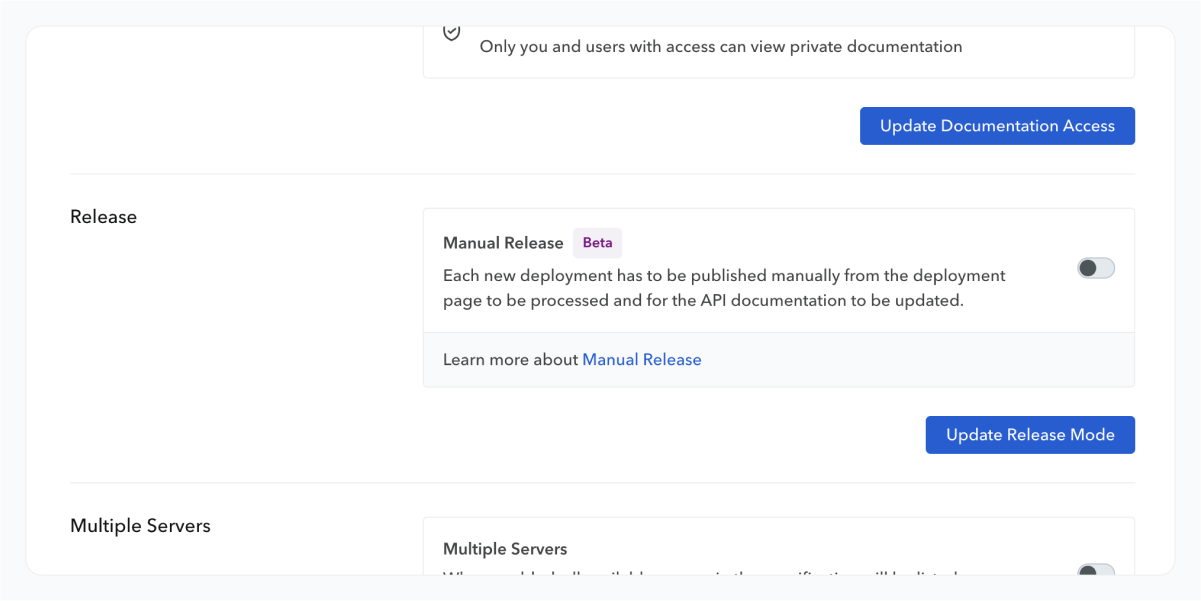
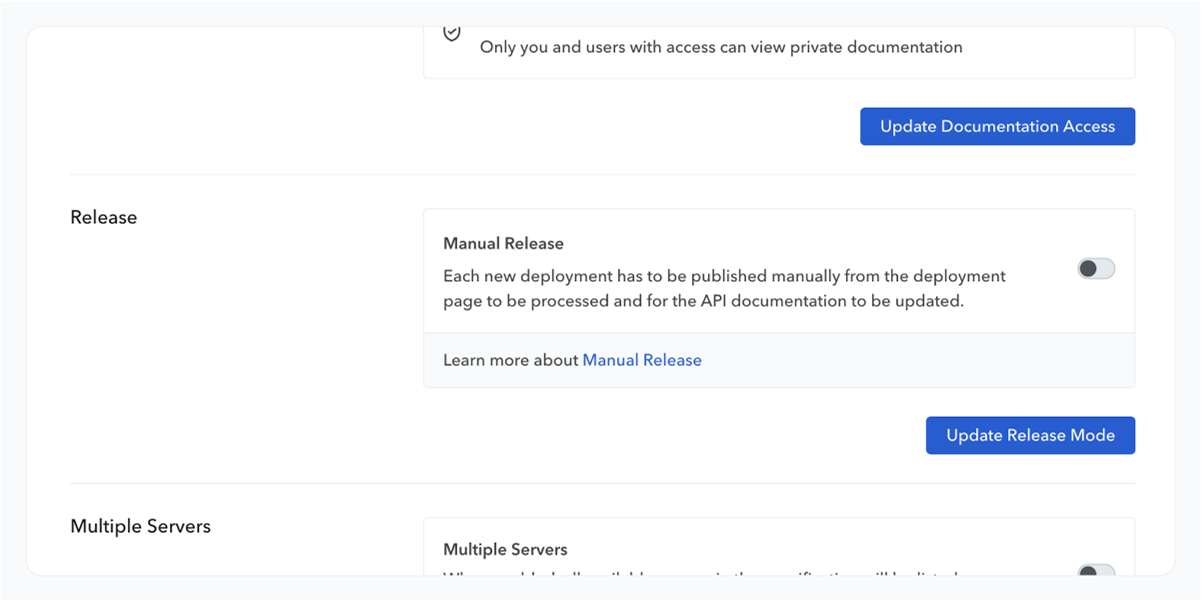
initial commit

diff --git a/src/_help/publish-documentation/deploy-and-release-management.md b/src/_help/publish-documentation/deploy-and-release-management.md
@@ -49,9 +49,6 @@ The Deployments section of your documentation provides access to the history of 
 
 ### Manual Release
 
->The Manual Release mode is still in beta. Please don't hesitate to [contact us](mailto: hello@bump.sh) if you have any questions.
-{: .info}
-
 The Manual Release mode is an option that allows you to separate the processing step from the releasing step of your API definition.
 
 ![](/images/help/manual-release-toggle.png)
